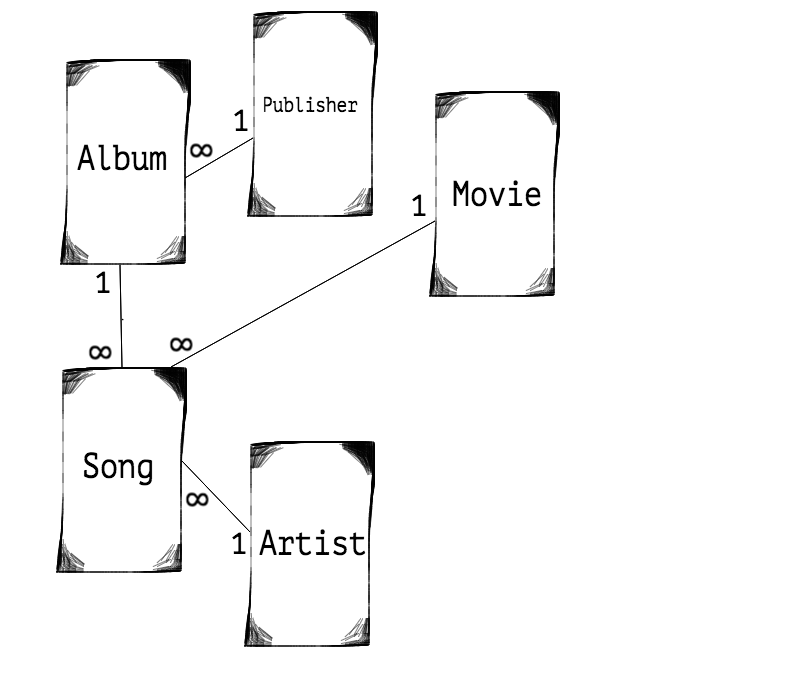
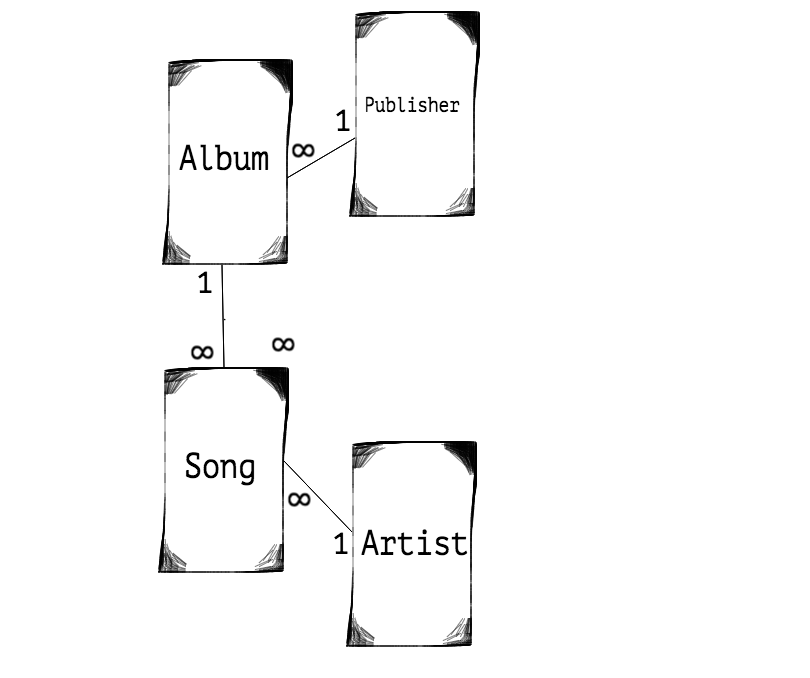
update diagram, instructions, seeds

diff --git a/db/seeds.rb b/db/seeds.rb
@@ -55,3 +55,20 @@ Publisher.pluck(:id).each do |publisher_id|
 end
 
 puts
+print 'Creating songs'
+artist_ids = Artist.pluck(:id)
+Album.pluck(:id).each do |album_id|
+  random_artist = artist_ids.pop
+  artist_ids = Artist.pluck(:id) if artist_ids.empty?
+  random_number_of_songs = 6 + rand(4)
+  random_number_of_songs.times do
+    Song.create name: Faker::Hipster.sentence(1, false, 4),
+      album_id: album_id,
+      artist_id: random_artist
+    print '.'
+  end
+end
+
+puts
+puts "Complete"
+puts "===================="

diff --git a/README.md b/README.md
@@ -2,11 +2,11 @@
 
 ## Alamo Records
 
-Alamo Records is a online store that sells vintage vinyl records. It is built on the Ruby on Rails web framework and consists of the following models:
+Alamo Records is a online store that sells vintage vinyl records. It is built on the [Ruby on Rails](http://www.rubyonrails.org) web framework and consists of the following models:
 
 1. Publisher - a publisher sells albums.
 2. Album - albums are sold by publishers and include many songs.
-3. Song - a song is recorded onto one album. It is written by one artist or a collaboration of artists.
+3. Song - a song is recorded onto one album. It is written by one artist.
 4. Artist - an artist writes songs.
 5. Movie - a movie can include many songs.
 
@@ -24,22 +24,20 @@ Complete as many tasks as you can in four hours and then submit a pull request t
 
 ### Tasks
 
-1. On the publishers index page, change the h1 element to the color #054A91.
+1. On the publishers index page, change the __H1__ element to the color #054A91.
 2. On the navigation bar, add a link to the songs index page .
-3. The albums index page is executing too many queries. Fix it.
+3. Several pages are executing too many queries. Fix them.
 4. In the album model, create a scope called __recent__ that takes an argument __n__ (the number of albums) and returns only the last __n__ albums released during the past 365 days.
-5. On the new album page, replace the publisher text field with a dropdown that displays each publisher's name.
+5. On the new/edit album pages, replace the publisher text field with a dropdown that displays each publisher's name.
 6. Add code to ensure that when an album is saved, a publisher is required.
 7. On the album index page, add a delete button for each album that, when pressed, deletes the album via ajax and removes the row from the page.
 8. In the footer, under the LATEST section, display the 5 most recent albums released.
-9. On the artist show page, duplicate albums are being displayed. Fix it.
+9. On the artist show page, duplicate albums are being displayed in some cases. Fix this.
 9. Run the tests and fix all that fail.
 10. Write tests for the delete button you added in task 7.
-11. Alamo Records is starting up a new business unit that will produce movies. This will be a highly synergistic endeavor as they already own the publishing rights to many popular hip hop songs. Create the Movie model with the following attributes:
-  1. title (string)
-  2. year (integer)
-  3. rated (string)
-  4. plot (text)
-  5. poster_url (string)
-  6. imdb_rating (float)
-  7. imdb_votes (integer)
+11. This is your final task. Alamo Records would like to change the artist index page from a table to a grid of artist profile image links. There are no artist profile images available, however, we can use the https://randomuser.me/ service to request fake user data including profile images. Your solution should meet the following requirements:
+  1. The artist index page should display a responsive grid of artist profile images.
+  2. The profile images should link to the artist show page.
+  3. Initially, the profile images will not exist and a placeholder image should be shown.
+  4. Once a user navigates to the artist show page, and if there is no profile image, an api request should be made to https://randomuser.me to request data for a user. Using the data returned, save the image url to a field on the artist model. Subsequent requests to the same artist should not generate an api call.
+  5. Write tests for a successful api call, a failed api call and a test that ensures only one api call is made per artist.
